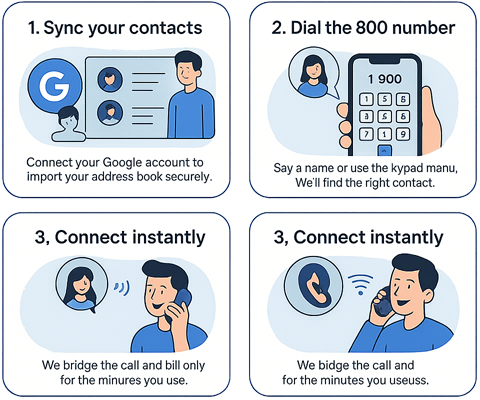
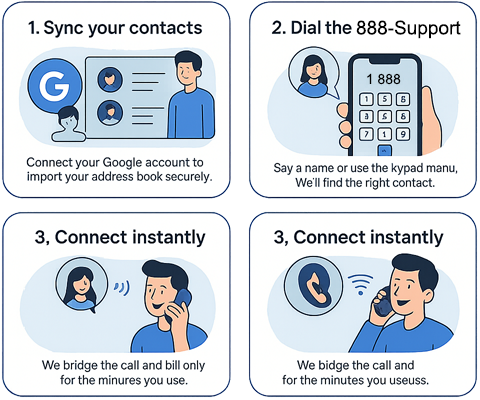
update landing page style & image text

Changed region(s): [[0.7188, 0.03, 0.9688, 0.09], [0.75, 0.18, 0.8438, 0.21]]

diff --git a/src/components/Proof/index.tsx b/src/components/Proof/index.tsx
@@ -14,9 +14,9 @@ const Proof = () => {
                     {/* RIGHT: copy */}
                     <div>
                         <h2 className="text-3xl text-center lg:text-4xl font-semibold text-midnightblue">
-                            Simple. Private. Carrier-grade.
+                            Simple, Private, Carrier-grade
                         </h2>
-                        <p className="mt-4 text-bluegray">
+                        <p className="text-lg mt-4 text-bluegray">
                             Dial one 888 number, search by voice or keypad, and connect instantly.
                             Your contacts stay encrypted, and calls route over reliable carrier-grade
                             infrastructure for clear, dependable connections.

diff --git a/src/components/Pricing/index.tsx b/src/components/Pricing/index.tsx
@@ -14,7 +14,7 @@ const Pricing = () => {
         <div className="mt-12 mx-auto max-w-md rounded-2xl border border-bluegray bg-white p-8 shadow-soft">
           <div className="flex items-end gap-2">
             <span className="text-4xl font-bold">$0.05</span>
-            <span className="text-slate-500 mb-2">/ minute</span>
+            <span className=" text-xl text-slate-500">/ minute</span>
           </div>
           <ul className="mt-6 text-lg space-y-3 text-slate-700">
             <li className="flex items-center gap-4">

diff --git a/src/components/Howitworks/index.tsx b/src/components/Howitworks/index.tsx
@@ -8,7 +8,7 @@ interface whydata {
 const whydata: whydata[] = [
     {
         heading: "Sync your contacts",
-        subheading: "Connect your Google account to import your address book securely.",
+        subheading: "Connect your Google account to import your contacts phone numbers.",
     },
     {
         heading: "Dial the 888-Support number",
